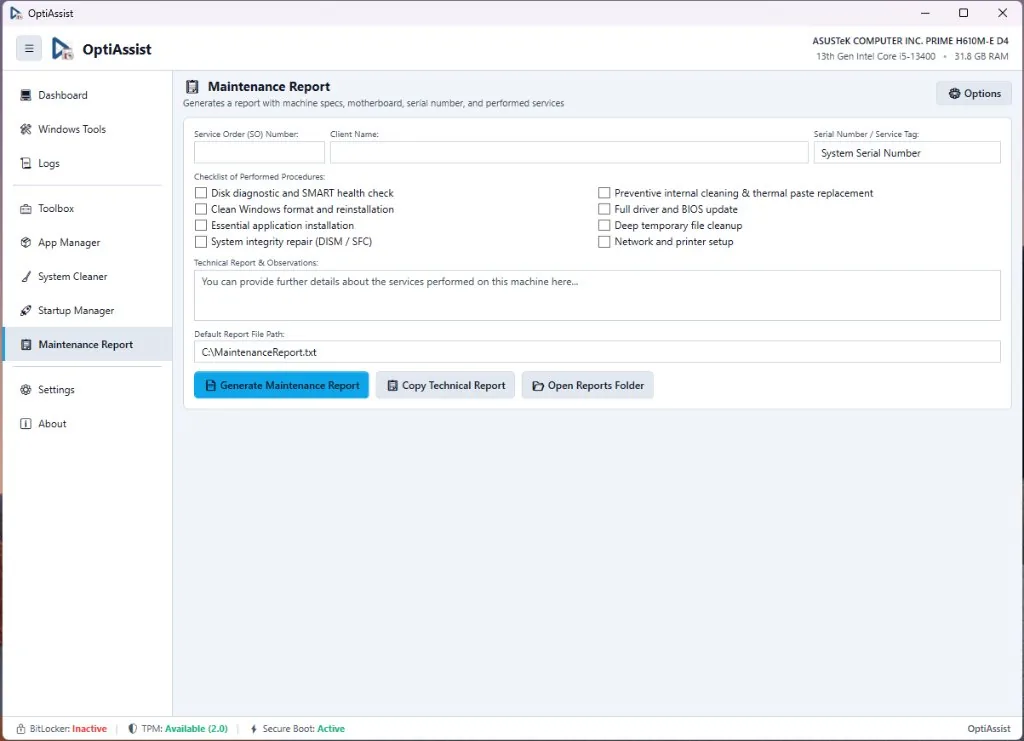
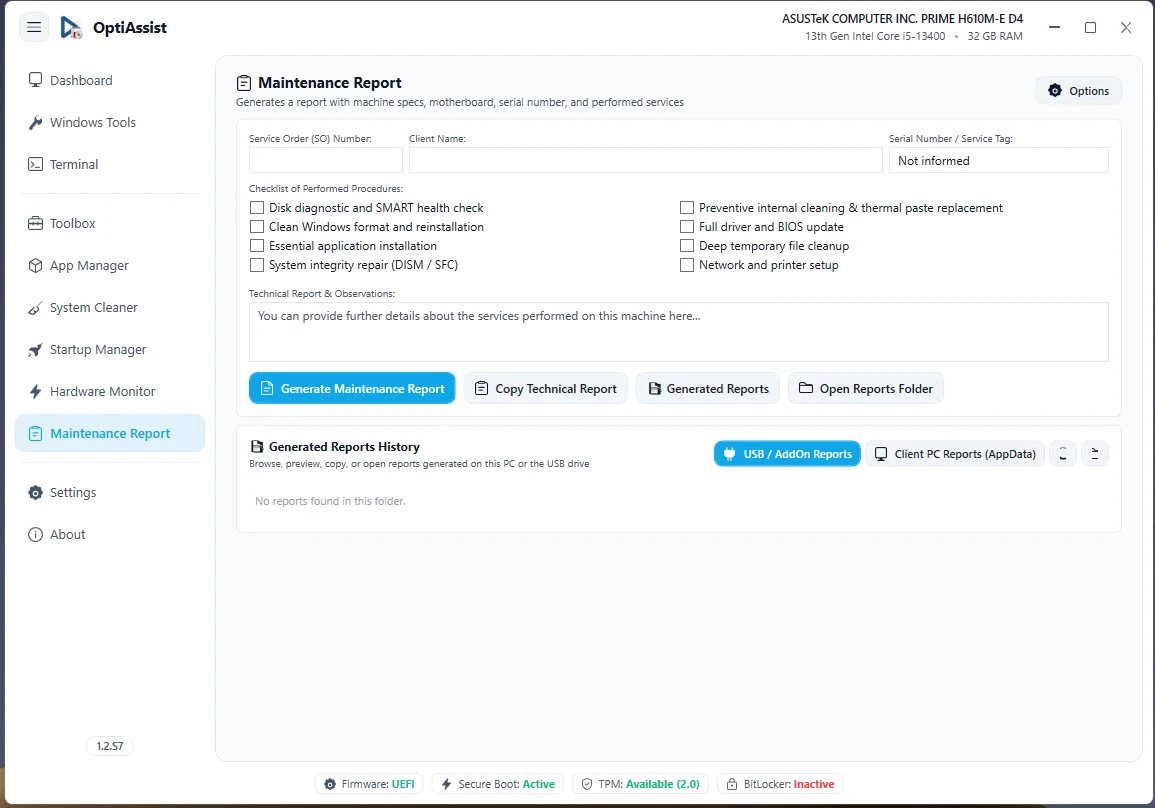
docs(optiassist): atualiza capturas de tela e complementa módulos v1.2.S7

diff --git a/html/projects/optiassist.html b/html/projects/optiassist.html
@@ -190,15 +190,16 @@
         .feature-list li {
             font-size: 0.92rem;
             color: var(--bs-secondary-color);
-            margin-bottom: 0.6rem;
-            display: flex;
-            align-items: flex-start;
-            gap: 0.6rem;
+            margin-bottom: 0.65rem;
+            position: relative;
+            padding-left: 1.55rem;
+            line-height: 1.6;
         }
         .feature-list li i {
             color: var(--accent-color);
-            margin-top: 0.25rem;
-            flex-shrink: 0;
+            position: absolute;
+            left: 0;
+            top: 0.28rem;
         }
 
         /* Banner CTA */
@@ -285,31 +286,7 @@
             </div>
         </section>
 
-        <!-- 2. Value Props (Por que usar o OptiAssist?) -->
-        <section class="value-grid">
-            <div class="value-card">
-                <div class="value-icon"><i class="fas fa-plug-circle-bolt"></i></div>
-                <h4>Pronto para Uso</h4>
-                <p>Sem instaladores complicados ou dependências externas. Basta plugar a unidade USB em qualquer computador, e abrir o aplicativo.</p>
-            </div>
-            <div class="value-card">
-                <div class="value-icon"><i class="fas fa-layer-group"></i></div>
-                <h4>Centralização de Recursos</h4>
-                <p>Acabe com dezenas de janelas abertas e scripts avulsos. Todas as ferramentas e diagnósticos agora estão reunidos em uma interface limpa e intuitiva.</p>
-            </div>
-            <div class="value-card">
-                <div class="value-icon"><i class="fas fa-gauge-high"></i></div>
-                <h4>Mais Produtividade</h4>
-                <p>Automatize procedimentos rotineiros de manutenção preventiva e pós-instalação do Windows, economizando tempo valioso a cada atendimento.</p>
-            </div>
-            <div class="value-card">
-                <div class="value-icon"><i class="fas fa-file-invoice"></i></div>
-                <h4>Relatórios Detalhados</h4>
-                <p>Com o módulo Relatório de Manutenção, emita relatórios de serviço profissionais com um clique, com a configuração de hardware e os procedimentos realizados.</p>
-            </div>
-        </section>
-
-        <!-- 3. Recursos em Detalhes (Feature Showcase) -->
+        <!-- 2. Recursos em Detalhes (Feature Showcase) -->
 
         <!-- Feature 1: Dashboard & Diagnósticos -->
         <section class="feature-block">
@@ -321,10 +298,9 @@
                         Identifique instantaneamente todos os componentes da máquina sem precisar abrir o equipamento ou navegar por menus escondidos do sistema operacional.
                     </p>
                     <ul class="feature-list">
-                        <li><i class="fas fa-check-circle"></i> Identificação do processador, memória RAM, placa de vídeo e placa-mãe.</li>
+                        <li><i class="fas fa-check-circle"></i> Indicador dinâmico de saúde em 3 níveis com recomendações práticas para espaço em disco, proteção do sistema, reinício pendente e compatibilidade.</li>
+                        <li><i class="fas fa-check-circle"></i> Visão rápida do processador, memória RAM, placa de vídeo, placa-mãe, versão de BIOS, edição do Windows e unidades de armazenamento.</li>
                         <li><i class="fas fa-check-circle"></i> Número de série e Service Tag com cópia rápida para a área de transferência.</li>
-                        <li><i class="fas fa-check-circle"></i> Auditoria rápida de recursos de segurança: status do BitLocker, módulo TPM e Secure Boot.</li>
-                        <li><i class="fas fa-check-circle"></i> Atalhos para os principais consoles administrativos nativos do Windows.</li>
                     </ul>
                 </div>
                 <div class="feature-media">
@@ -333,7 +309,50 @@
             </div>
         </section>
 
-        <!-- Feature 2: App Manager (Pós-instalação) -->
+        <!-- Feature 2: Windows Tools & OptiBoost -->
+        <section class="feature-block">
+            <div class="feature-row reverse">
+                <div class="feature-content">
+                    <span class="feature-badge">Windows Tools &amp; OptiBoost</span>
+                    <h3 class="feature-title">Otimização inteligente por perfil de hardware</h3>
+                    <p class="feature-desc">
+                        Motor de otimização que detecta automaticamente o perfil da máquina para aplicar ajustes seguros, pensado tanto para profissionais de TI quanto para uso doméstico sem riscos.
+                    </p>
+                    <ul class="feature-list">
+                        <li><i class="fas fa-check-circle"></i> <strong>7 perfis detectados automaticamente:</strong> <em>Gaming PC</em>, <em>Workstation</em>, <em>Hybrid</em>, <em>Conventional Desktop</em>, <em>Laptop</em>, <em>Gaming Laptop</em> e <em>Ultraportable</em>.</li>
+                        <li><i class="fas fa-check-circle"></i> <strong>Prévia e Reversão Segura:</strong> veja exatamente o que será alterado antes de confirmar, com criação automática de Ponto de Restauração do Windows e opção de desfazer um ajuste específico ou restaurar tudo com um clique.</li>
+                        <li><i class="fas fa-check-circle"></i> Proteções inteligentes que evitam alterações inadequadas conforme o hardware e a edição do Windows instalada.</li>
+                        <li><i class="fas fa-check-circle"></i> Acesso rápido a 23 consoles e ferramentas nativas de administração do Windows.</li>
+                    </ul>
+                </div>
+                <div class="feature-media">
+                    <img src="/images/optiassist-optiboost.webp" alt="OptiBoost com detecção automática de perfil e ajustes por categoria" loading="lazy">
+                </div>
+            </div>
+        </section>
+
+        <!-- Feature 3: Compatibility Checker -->
+        <section class="feature-block">
+            <div class="feature-row">
+                <div class="feature-content">
+                    <span class="feature-badge">Compatibility Checker</span>
+                    <h3 class="feature-title">Auditoria de compatibilidade e diagnóstico</h3>
+                    <p class="feature-desc">
+                        Avalie em segundos se o equipamento está apto para versões modernas do Windows e identifique gargalos ou conflitos conhecidos de hardware e drivers.
+                    </p>
+                    <ul class="feature-list">
+                        <li><i class="fas fa-check-circle"></i> Avaliação individual de CPU, GPU, RAM, tipo de armazenamento e Firmware com indicadores claros de compatibilidade.</li>
+                        <li><i class="fas fa-check-circle"></i> Verificação automática de requisitos do Windows 11.</li>
+                        <li><i class="fas fa-check-circle"></i> Detecção de 13 cenários documentados de incompatibilidade de hardware e driver com correções rápidas.</li>
+                    </ul>
+                </div>
+                <div class="feature-media">
+                    <img src="/images/optiassist-compatcheck.webp" alt="Compatibility Checker verificando hardware e conflitos conhecidos" loading="lazy">
+                </div>
+            </div>
+        </section>
+
+        <!-- Feature 4: App Manager (Pós-instalação) -->
         <section class="feature-block">
             <div class="feature-row reverse">
                 <div class="feature-content">
@@ -344,20 +363,39 @@
                     </p>
                     <ul class="feature-list">
                         <li><i class="fas fa-check-circle"></i> Suporte a instaladores offline na unidade USB.</li>
-                        <li><i class="fas fa-check-circle"></i> Integração automática com o Windows Package Manager.</li>
-                        <li><i class="fas fa-check-circle"></i> Escaneamento e atualização de programas já instalados com um só clique.</li>
-                        <li><i class="fas fa-check-circle"></i> Catálogo personalizável para adicionar seus próprios instaladores.</li>
+                        <li><i class="fas fa-check-circle"></i> Integração automática com o Windows Package Manager, com programas essenciais pré-selecionados.</li>
+                        <li><i class="fas fa-check-circle"></i> Editor visual de catálogo para personalizar sua própria lista de instaladores.</li>
                     </ul>
                 </div>
                 <div class="feature-media">
-                    <img src="/images/optiassist-appmanager.webp" alt="Gerenciador de Aplicativos e Instalador em Lote">
+                    <img src="/images/optiassist-appmanager.webp" alt="Gerenciador de Aplicativos e Instalador em Lote" loading="lazy">
                 </div>
             </div>
         </section>
 
-        <!-- Feature 3: System Cleaner -->
+        <!-- Feature 5: App Updates & Manage Apps -->
         <section class="feature-block">
             <div class="feature-row">
+                <div class="feature-content">
+                    <span class="feature-badge">App Updates &amp; Manage Apps</span>
+                    <h3 class="feature-title">Atualização em lote e inventário completo</h3>
+                    <p class="feature-desc">
+                        Mantenha os programas do cliente atualizados e controle tudo o que está instalado no sistema em um único lugar, sem depender de múltiplos assistentes.
+                    </p>
+                    <ul class="feature-list">
+                        <li><i class="fas fa-check-circle"></i> <strong>App Updates:</strong> varredura e atualização em lote de aplicativos desatualizados, com atalho direto para a Microsoft Store.</li>
+                        <li><i class="fas fa-check-circle"></i> <strong>Manage Apps:</strong> inventário completo exibindo fabricante, data de instalação, diretório e tamanho em disco, com botões diretos para atualizar ou desinstalar programas.</li>
+                    </ul>
+                </div>
+                <div class="feature-media">
+                    <img src="/images/optiassist-appupdates.webp" alt="Tela de atualização em lote de aplicativos" loading="lazy">
+                </div>
+            </div>
+        </section>
+
+        <!-- Feature 6: System Cleaner -->
+        <section class="feature-block">
+            <div class="feature-row reverse">
                 <div class="feature-content">
                     <span class="feature-badge">Limpeza do Sistema</span>
                     <h3 class="feature-title">Mantenha o sistema rápido e em perfeitas condições</h3>
@@ -365,42 +403,43 @@
                         Recupere gigabytes de espaço em disco eliminando arquivos temporários, caches acumulados e resíduos desnecessários do Windows com total segurança e controle.
                     </p>
                     <ul class="feature-list">
-                        <li><i class="fas fa-check-circle"></i> <strong>Modo Análise:</strong> veja exatamente quanto espaço será liberado antes de apagar qualquer arquivo.</li>
-                        <li><i class="fas fa-check-circle"></i> Proteção ativa para nunca remover arquivos essenciais do sistema operacional.</li>
-                        <li><i class="fas fa-check-circle"></i> Limpeza inteligente de caches pesados de desenvolvimento.</li>
+                        <li><i class="fas fa-check-circle"></i> Motor próprio alimentado por <strong>37 definições de limpeza</strong> para sistema, navegadores e aplicativos populares.</li>
+                        <li><i class="fas fa-check-circle"></i> <strong>Modo Análise:</strong> veja exatamente quanto espaço será liberado e inspecione os arquivos antes de apagar qualquer item.</li>
+                        <li><i class="fas fa-check-circle"></i> Proteção ativa de caminhos críticos do sistema, compactação de bancos de dados e limpeza profunda de caches de desenvolvimento.</li>
+                        <li><i class="fas fa-check-circle"></i> Opção de backup prévio antes da limpeza com restauração completa quando necessário.</li>
                     </ul>
                 </div>
                 <div class="feature-media">
-                    <img src="/images/optiassist-cleaner.webp" alt="Limpeza de Sistema com Análise Prévia Dry-Run">
+                    <img src="/images/optiassist-cleaner.webp" alt="Limpeza de Sistema com Análise Prévia" loading="lazy">
                 </div>
             </div>
         </section>
 
-        <!-- Feature 4: Toolbox de Automação -->
-        <section class="feature-block">
-            <div class="feature-row reverse">
-                <div class="feature-content">
-                    <span class="feature-badge">Toolbox</span>
-                    <h3 class="feature-title">Uma verdadeira caixa de ferramentas profissional</h3>
-                    <p class="feature-desc">
-                        Uma biblioteca com 40 pré-definições de rotinas de reparo para resolver os problemas mais comuns do Windows em poucos segundos, sem necessidade de usar ferramentas de terminal.
-                    </p>
-                    <ul class="feature-list">
-                        <li><i class="fas fa-check-circle"></i> Redefinição de adaptadores de rede, limpeza de cache DNS e renovação de IP.</li>
-                        <li><i class="fas fa-check-circle"></i> Verificação de integridade de arquivos do sistema automatizada.</li>
-                        <li><i class="fas fa-check-circle"></i> Exibição dos resultados e logs do terminal em tempo real na própria tela.</li>
-                        <li><i class="fas fa-check-circle"></i> Flexibilidade: possibilidade de adicionar novos scripts PowerShell, CMD ou programas portáteis.</li>
-                    </ul>
-                </div>
-                <div class="feature-media">
-                    <img src="/images/optiassist-toolbox.webp" alt="Toolbox de Scripts e Automações de Manutenção">
-                </div>
-            </div>
-        </section>
-
-        <!-- Feature 5: Startup Manager -->
+        <!-- Feature 7: Toolbox de Automação -->
         <section class="feature-block">
             <div class="feature-row">
+                <div class="feature-content">
+                    <span class="feature-badge">Toolbox &amp; Terminal</span>
+                    <h3 class="feature-title">Uma verdadeira caixa de ferramentas profissional</h3>
+                    <p class="feature-desc">
+                        Uma biblioteca com rotinas prontas de reparo e execução assíncrona para resolver os problemas mais comuns do Windows em poucos segundos, sem necessidade de decorar comandos.
+                    </p>
+                    <ul class="feature-list">
+                        <li><i class="fas fa-check-circle"></i> Rotinas prontas para reparo de integridade do sistema, disco, impressão em rede, Windows Update, rede/DNS, sincronização de horário e dual boot.</li>
+                        <li><i class="fas fa-check-circle"></i> Lançador integrado do <strong>Chris Titus WinUtil</strong> e suporte a scripts PowerShell, CMD e executáveis portáteis.</li>
+                        <li><i class="fas fa-check-circle"></i> Botão dedicado de <strong>Terminal</strong> na barra lateral exibindo logs ao vivo de todos os módulos sem tirar o foco da aba atual.</li>
+                        <li><i class="fas fa-check-circle"></i> Flexibilidade para criar, editar e categorizar suas próprias ações e scripts.</li>
+                    </ul>
+                </div>
+                <div class="feature-media">
+                    <img src="/images/optiassist-toolbox.webp" alt="Toolbox de Scripts e Automações de Manutenção" loading="lazy">
+                </div>
+            </div>
+        </section>
+
+        <!-- Feature 8: Startup Manager -->
+        <section class="feature-block">
+            <div class="feature-row reverse">
                 <div class="feature-content">
                     <span class="feature-badge">Gerenciador de Inicialização</span>
                     <h3 class="feature-title">Controle total sobre as rotinas de inicialização do sistema</h3>
@@ -408,18 +447,40 @@
                         Identifique com clareza quais programas e tarefas iniciam junto com o Windows, atrasando a inicialização do computador, e desative-os de forma simples e reversível.
                     </p>
                     <ul class="feature-list">
-                        <li><i class="fas fa-check-circle"></i> Visão unificada das chaves de registro do Windows e pastas de inicialização.</li>
-                        <li><i class="fas fa-check-circle"></i> Monitoramento de Tarefas Agendadas em segundo plano.</li>
-                        <li><i class="fas fa-check-circle"></i> Filtro de busca imediato e avisos visuais de proteção para serviços nativos.</li>
+                        <li><i class="fas fa-check-circle"></i> Visão unificada das chaves de registro do Windows e pastas de inicialização, com ativação e desativação não destrutiva.</li>
+                        <li><i class="fas fa-check-circle"></i> Monitoramento e controle de Tarefas Agendadas em segundo plano.</li>
+                        <li><i class="fas fa-check-circle"></i> Filtro de busca imediato, avisos visuais de proteção e suporte a habilitar, desabilitar ou excluir entradas.</li>
                     </ul>
                 </div>
                 <div class="feature-media">
-                    <img src="/images/optiassist-startup.webp" alt="Gerenciador de Itens de Inicialização e Tarefas">
+                    <img src="/images/optiassist-startup.webp" alt="Gerenciador de Itens de Inicialização e Tarefas" loading="lazy">
                 </div>
             </div>
         </section>
 
-        <!-- Feature 6: Maintenance Report -->
+        <!-- Feature 9: Hardware Monitor -->
+        <section class="feature-block">
+            <div class="feature-row">
+                <div class="feature-content">
+                    <span class="feature-badge">Hardware Monitor</span>
+                    <h3 class="feature-title">Telemetria avançada, sensores e benchmark</h3>
+                    <p class="feature-desc">
+                        Inspecione em profundidade a arquitetura da máquina, acompanhe temperaturas em tempo real e execute testes rápidos de estresse e saúde de bateria.
+                    </p>
+                    <ul class="feature-list">
+                        <li><i class="fas fa-check-circle"></i> <strong>Resumo do Sistema:</strong> uso ao vivo de CPU e RAM, conjuntos de instruções, módulos de memória por slot, placa-mãe, GPU, unidades físicas e monitores.</li>
+                        <li><i class="fas fa-check-circle"></i> <strong>Sensores em Tempo Real:</strong> leitura de valores atuais, mínimos e máximos com busca, reset e exportação de relatório.</li>
+                        <li><i class="fas fa-check-circle"></i> <strong>Dispositivos e Bateria:</strong> árvore completa de dispositivos com códigos de erro e análise de desgaste e ciclos em notebooks.</li>
+                        <li><i class="fas fa-check-circle"></i> <strong>Benchmark e Estresse:</strong> testes rápidos de desempenho de CPU, largura de banda de RAM e I/O de disco.</li>
+                    </ul>
+                </div>
+                <div class="feature-media">
+                    <img src="/images/optiassist-hwmonitor.webp" alt="Hardware Monitor com leitura de CPU, memória, placas e displays" loading="lazy">
+                </div>
+            </div>
+        </section>
+
+        <!-- Feature 10: Maintenance Report -->
         <section class="feature-block">
             <div class="feature-row reverse">
                 <div class="feature-content">
@@ -430,13 +491,13 @@
                     </p>
                     <ul class="feature-list">
                         <li><i class="fas fa-check-circle"></i> Registro dos dados do cliente, modelo da máquina e número da ordem de serviço.</li>
-                        <li><i class="fas fa-check-circle"></i> Checklist de procedimentos executados (limpeza física, troca de pasta térmica, formatação, etc.).</li>
-                        <li><i class="fas fa-check-circle"></i> Inclusão automática das especificações técnicas de hardware detectadas.</li>
-                        <li><i class="fas fa-check-circle"></i> Exportação em um clique para arquivo de texto limpo, pronto para imprimir ou enviar.</li>
+                        <li><i class="fas fa-check-circle"></i> Checklist completo de 8 procedimentos executados durante o atendimento técnico.</li>
+                        <li><i class="fas fa-check-circle"></i> Inclusão automática das especificações técnicas de hardware e número de série detectados.</li>
+                        <li><i class="fas fa-check-circle"></i> Exportação em arquivo de texto limpo, cópia rápida e histórico integrado separando relatórios salvos na unidade USB e no computador do cliente.</li>
                     </ul>
                 </div>
                 <div class="feature-media">
-                    <img src="/images/optiassist-report.webp" alt="Emissor de Ordens de Serviço e Relatórios Técnicos">
+                    <img src="/images/optiassist-report.webp" alt="Emissor de Ordens de Serviço e Relatórios Técnicos" loading="lazy">
                 </div>
             </div>
         </section>
